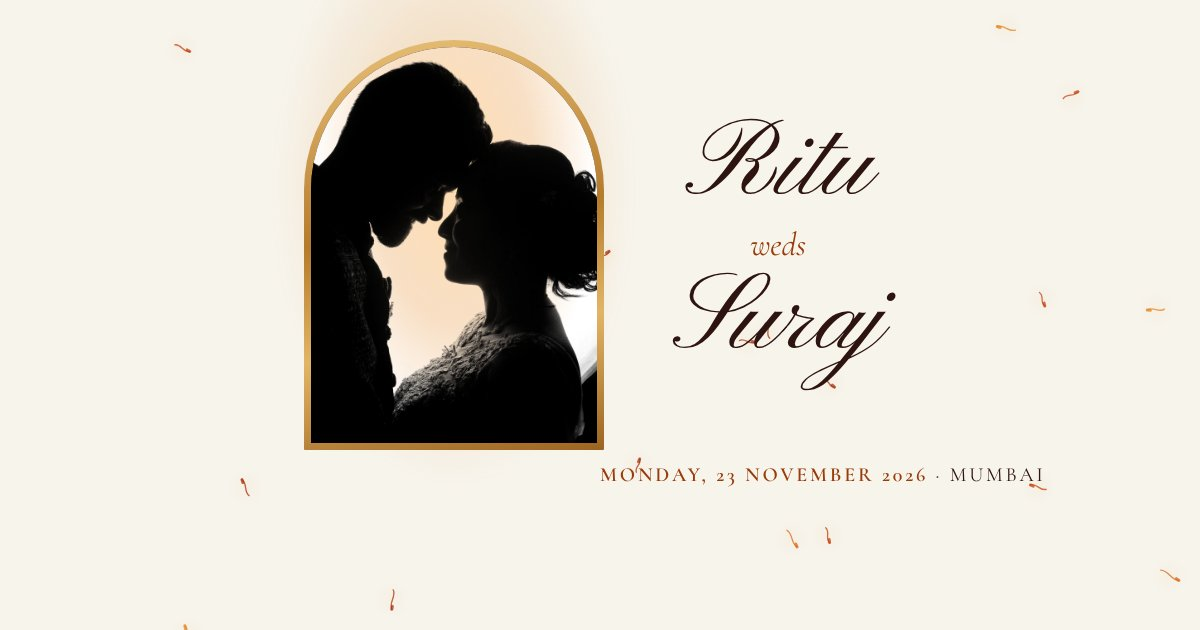
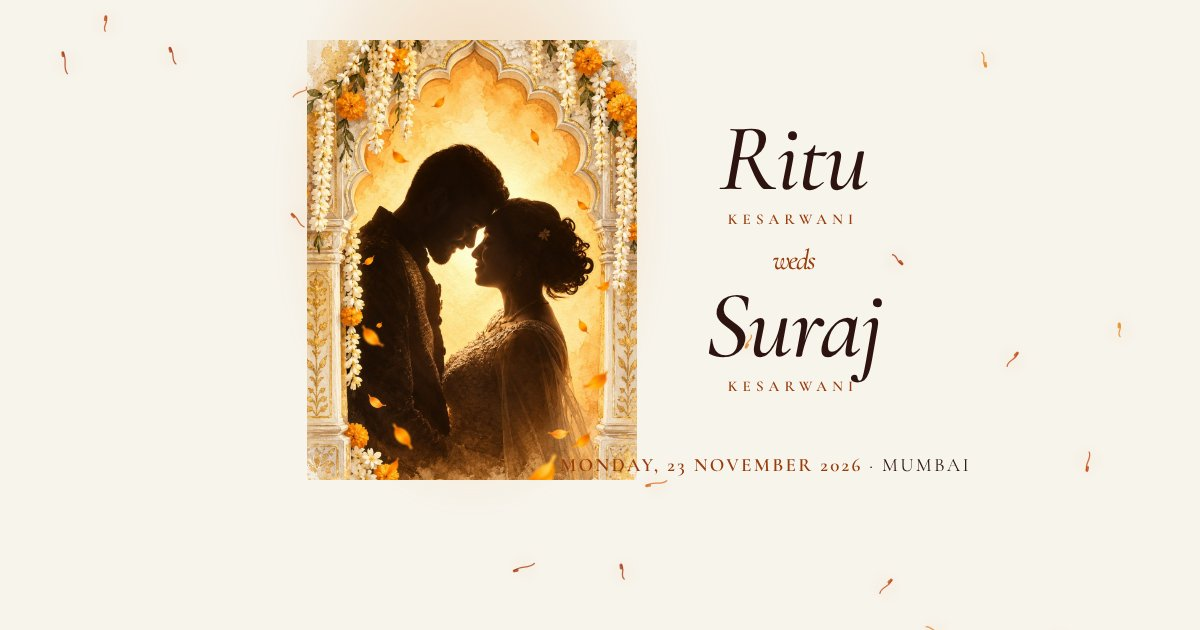
Add generated artwork; Haldi 6-10 PM; Vidai spelling
- Embossed paper, maroon-gold liner, personalized wax seal and gold line sketch on the envelope
- Illustrated hero, Haldi, Shubh Vivah, Vidai scenes and Varanasi finale
- Early taps on the seal now open the envelope once images have loaded
- New WhatsApp preview image

Claude-Session: https://claude.ai/code/session_014YXH3ci8fQ2fFcVnnSEfGq

Changed region(s): [[0.2467, 0.0603, 0.8633, 0.7841], [0.7708, 0.9952, 0.8017, 1.0], [0.6475, 0.8444, 0.6783, 0.8746]]

diff --git a/src/styles.css b/src/styles.css
@@ -58,8 +58,8 @@ figure { margin: 0 }
 .flap .back { transform: rotateX(180deg); background: inherit; background-color: #4A1019; background-image: radial-gradient(circle, rgba(233, 184, 114, .45) 1.4px, transparent 1.8px), repeating-linear-gradient(45deg, rgba(233, 184, 114, .14) 0 1px, transparent 1px 13px), repeating-linear-gradient(-45deg, rgba(233, 184, 114, .14) 0 1px, transparent 1px 13px), linear-gradient(0deg, #6A1A26, #3A0C14); background-size: 18px 18px, auto, auto, 100% 100% }
 .lit { position: absolute; inset: 0; background-image: var(--glowp); background-size: 100% 100%; pointer-events: none;
   -webkit-mask-image: radial-gradient(circle at 50% 56%, #000 calc(var(--gr) - 14%), transparent var(--gr)); mask-image: radial-gradient(circle at 50% 56%, #000 calc(var(--gr) - 14%), transparent var(--gr)) }
-.gate.photo .lit { filter: sepia(1) saturate(5) hue-rotate(-12deg) brightness(1.08) contrast(1.35) }
-.copy { position: absolute; left: 0; right: 0; z-index: 5; text-align: center; color: var(--ink); pointer-events: none; padding: 14px max(24px, env(safe-area-inset-left, 0px)); background: radial-gradient(ellipse 60% 70% at 50% 50%, rgba(247, 243, 234, .92), rgba(247, 243, 234, .6) 60%, rgba(247, 243, 234, 0) 80%) }
+.gate.photo .lit { filter: sepia(.85) saturate(2.4) hue-rotate(-14deg) contrast(1.15); mix-blend-mode: multiply; opacity: .75 }
+.copy { position: absolute; left: 0; right: 0; z-index: 5; transform: translateZ(6px); text-align: center; color: var(--ink); pointer-events: none; padding: 14px max(24px, env(safe-area-inset-left, 0px)); background: radial-gradient(ellipse 60% 70% at 50% 50%, rgba(247, 243, 234, .92), rgba(247, 243, 234, .6) 60%, rgba(247, 243, 234, 0) 80%) }
 .copy.top { top: calc(56% - clamp(196px, 27vh, 244px)) }
 .copy .k { display: block; font-size: 13px; letter-spacing: .32em; text-transform: uppercase; color: var(--kesar-ink) }
 .copy .s { display: block; font-family: var(--script); font-style: italic; font-weight: 500; font-size: clamp(26px, 7vw, 38px); line-height: 1.15; margin-top: 4px }
@@ -67,8 +67,8 @@ figure { margin: 0 }
 .copy.bot p { font-family: var(--serif); font-style: italic; font-size: clamp(20px, 5.4vw, 24px); line-height: 1.35 }
 .copy.bot small { display: block; margin-top: 14px; font-size: 13px; letter-spacing: .3em; text-transform: uppercase; color: var(--muted) }
 .copy.bot small .deva { letter-spacing: 0; text-transform: none; font-size: 15px }
-.seal { position: absolute; left: 50%; top: 56%; z-index: 6; width: clamp(110px, 30vw, 150px); aspect-ratio: 1; margin: 0; padding: 0; border: 0; background: none; cursor: pointer; border-radius: 50%; translate: -50% -50% }
-.seal:disabled { cursor: progress }
+.seal { position: absolute; left: 50%; top: 56%; z-index: 6; width: clamp(110px, 30vw, 150px); aspect-ratio: 1; margin: 0; padding: 0; border: 0; background: none; cursor: pointer; border-radius: 50%; translate: -50% -50%; transform: translateZ(8px) }
+.seal[aria-busy="true"] { cursor: progress }
 .seal .half { position: absolute; inset: 0; display: block; transition: transform .35s var(--out) }
 .seal .half svg, .seal .half img { width: 100%; height: 100%; display: block; filter: drop-shadow(0 6px 10px rgba(60, 10, 10, .45)); user-select: none; -webkit-user-drag: none }
 .seal .h1 { clip-path: polygon(0 0, 52% 0, 47% 22%, 55% 40%, 46% 58%, 54% 76%, 49% 100%, 0 100%) }
@@ -261,3 +261,17 @@ main { position: relative; z-index: 1; overflow-x: clip }
 /* generated paper photo: cover instead of stretch (all layers share the same box, so they stay aligned) */
 .gate.photo .pocket, .gate.photo .lit { background-size: cover; background-position: center }
 .gate.photo .flap .front { background-size: 100% 100%, cover; background-position: center }
+
+/* ============ generated art ============ */
+.arch.painted { width: min(74vw, 40vh, 440px); aspect-ratio: 3/4 }
+.arch.painted .arch-frame { padding: 0; background: none; border-radius: 0; overflow: hidden;
+  -webkit-mask-image: radial-gradient(ellipse 72% 70% at 50% 48%, #000 62%, transparent 100%); mask-image: radial-gradient(ellipse 72% 70% at 50% 48%, #000 62%, transparent 100%) }
+.arch.painted .arch-frame img { width: 100%; height: 100%; object-fit: cover; display: block }
+.card-in img.sketch { width: 58%; aspect-ratio: 1; object-fit: contain; border-radius: 0; filter: none; box-shadow: none }
+.finale.painted .bg { inset: -4% 0 }
+.finale.painted .bg img { filter: none; mix-blend-mode: normal; opacity: 1; object-position: 50% 70% }
+.finale.painted::after { background: linear-gradient(180deg, var(--curtain) 0%, rgba(78, 17, 27, .82) 18%, rgba(78, 17, 27, .35) 45%, transparent 62%, rgba(40, 8, 14, .55) 88%, var(--curtain)) }
+.finale.painted { place-items: start center }
+.finale.painted .in { padding-top: clamp(64px, 10vh, 110px); gap: 14px }
+.finale.painted .nm { font-size: clamp(56px, 15vw, 104px) }
+.finale.painted .wait { position: relative; margin-top: 52vh; text-shadow: 0 2px 12px rgba(0, 0, 0, .7) }

diff --git a/src/components/Envelope.tsx b/src/components/Envelope.tsx
@@ -13,6 +13,7 @@ export default function Envelope({ onOpen }: { onOpen: () => void }) {
   const root = useRef<HTMLDivElement>(null);
   const [art, setArt] = useState<{ paper: string; glow: string; photo: boolean; seal: string | null; liner: string | null } | null>(null);
   const opened = useRef(false);
+  const pending = useRef(false); // a tap that arrived before the paper finished loading
 
   // Paper: the generated photo if provided, else the procedural relief.
   useEffect(() => {
@@ -21,11 +22,12 @@ export default function Envelope({ onOpen }: { onOpen: () => void }) {
       if (!alive) return;
       const proc = p ? null : makePaper(innerWidth, innerHeight);
       setArt({
-        paper: p ? IMG.paper : proc!.paper,
-        glow: p ? IMG.paper : proc!.glow,
+        // absolute URLs: a url() inside a CSS variable resolves against the stylesheet, not the page
+        paper: p ? new URL(IMG.paper, document.baseURI).href : proc!.paper,
+        glow: p ? new URL(IMG.paper, document.baseURI).href : proc!.glow,
         photo: !!p,
-        seal: s ? IMG.seal : null,
-        liner: l ? IMG.liner : null,
+        seal: s ? new URL(IMG.seal, document.baseURI).href : null,
+        liner: l ? new URL(IMG.liner, document.baseURI).href : null,
       });
     });
     return () => { alive = false; };
@@ -51,7 +53,8 @@ export default function Envelope({ onOpen }: { onOpen: () => void }) {
   }, []);
 
   const open = () => {
-    if (opened.current || !art) return;
+    if (opened.current) return;
+    if (!art) { pending.current = true; return; }
     opened.current = true;
     const el = root.current!;
     const q = gsap.utils.selector(el);
@@ -79,6 +82,7 @@ export default function Envelope({ onOpen }: { onOpen: () => void }) {
       .to(q('.seal .h1'), { xPercent: -40, yPercent: 25, rotation: -22, opacity: 0, duration: 0.9, ease: 'power3.in' }, 1.0)
       .to(q('.seal .h2'), { xPercent: 40, yPercent: 30, rotation: 24, opacity: 0, duration: 0.9, ease: 'power3.in' }, 1.0)
       .to([svg, q('.halo')[0]], { opacity: 0, duration: 0.7, ease: 'power2.out' }, 1.45)
+      .to(q('.lit'), { opacity: 0, duration: 1.2, ease: 'power2.out' }, 1.5)
       // flap swings open on its hinge, the shadow it casts lifts
       .add(() => rustle(0, 0.8), 1.25)
       .to(q('.flap'), { rotationX: 180, duration: 1.05, ease: 'power2.inOut' }, 1.25)
@@ -102,6 +106,9 @@ export default function Envelope({ onOpen }: { onOpen: () => void }) {
       }, 3.0)
       .to(el, { opacity: 0, duration: 0.5, ease: 'power2.out' }, 4.0);
   };
+
+  // honour an early tap once everything is ready
+  useEffect(() => { if (art && pending.current) { pending.current = false; open(); } }, [art]);
 
   const sealSVG = (
     <svg viewBox="0 0 200 200" aria-hidden="true">
@@ -128,7 +135,7 @@ export default function Envelope({ onOpen }: { onOpen: () => void }) {
         <div className="card">
           <div className="card-in">
             <span className="k">The wedding of</span>
-            <img src={IMG.couple1} alt="" />
+            <img className={IMG.sketch ? 'sketch' : ''} src={IMG.sketch || IMG.couple1} alt="" />
             <span className="n">Ritu &amp; Suraj<small>Kesarwani</small></span>
             <span className="k">23 · 11 · 2026</span>
           </div>
@@ -142,7 +149,7 @@ export default function Envelope({ onOpen }: { onOpen: () => void }) {
         </div>
         <div className="copy top" aria-hidden="true"><span className="k">You are invited</span><span className="s">Ritu Kesarwani<br />&amp; Suraj Kesarwani</span></div>
         <div className="copy bot"><p>The Kesarwani family invites you<br />to the wedding of their daughter</p><small>Tap the seal · <span className="deva">मुहर खोलें</span></small></div>
-        <button className="seal" type="button" onClick={open} aria-label="Break the seal to open the invitation" disabled={!art}>
+        <button className="seal" type="button" onClick={open} aria-label="Break the seal to open the invitation" aria-busy={!art}>
           <span className="ring" aria-hidden="true" />
           <span className="half h1">{sealFace}</span>
           <span className="half h2">{sealFace}</span>

diff --git a/src/components/Sections.tsx b/src/components/Sections.tsx
@@ -16,16 +16,25 @@ export function Hero() {
   return (
     <header className="sec hero" id="hero">
       <div className="gan deva" data-in>॥ श्री गणेशाय नमः ॥</div>
-      <div className={`arch${arch ? ' has-art' : ''}`} data-in>
-        <div className="arch-glow" />
-        <div className="arch-frame">
-          <div className="arch-in">
-            <img id="heroImg" src={IMG.couple1} alt="Ritu and Suraj in silhouette, foreheads touching, lit from behind" width={800} height={1200} fetchPriority="high" />
-            <div className="tint" />
+      {IMG.heroArt ? (
+        <div className="arch painted" data-in>
+          <div className="arch-glow" />
+          <div className="arch-frame">
+            <img id="heroImg" src={IMG.heroArt} alt="Ritu and Suraj in silhouette, foreheads touching, inside a flower-draped jharokha arch" width={1200} height={1600} fetchPriority="high" />
           </div>
         </div>
-        {arch && <img className="arch-art" src={IMG.arch} alt="" />}
-      </div>
+      ) : (
+        <div className={`arch${arch ? ' has-art' : ''}`} data-in>
+          <div className="arch-glow" />
+          <div className="arch-frame">
+            <div className="arch-in">
+              <img id="heroImg" src={IMG.couple1} alt="Ritu and Suraj in silhouette, foreheads touching, lit from behind" width={800} height={1200} fetchPriority="high" />
+              <div className="tint" />
+            </div>
+          </div>
+          {arch && <img className="arch-art" src={IMG.arch} alt="" />}
+        </div>
+      )}
       <h1 className="names">
         <span className="ln"><span data-in>Ritu<span className="sur">Kesarwani</span></span></span>
         <span className="amp" data-in>weds</span>
@@ -293,8 +302,8 @@ export function Families() {
 export function Finale() {
   return (
     <>
-      <section className="finale" id="end" aria-labelledby="end-h">
-        <div className="bg"><img data-par="10" src={IMG.couple2} alt="" width={1100} height={1650} loading="lazy" /></div>
+      <section className={`finale${IMG.finaleArt ? ' painted' : ''}`} id="end" aria-labelledby="end-h">
+        <div className="bg"><img data-par="6" src={IMG.finaleArt || IMG.couple2} alt="" width={1080} height={1920} loading="lazy" /></div>
         <div className="in">
           <p className="bless" data-rv>Come with your blessings. We will keep a seat warm for you.</p>
           <h2 className="nm" id="end-h" data-rv>Ritu<span className="sur">Kesarwani</span><span className="and">and</span>Suraj<span className="sur">Kesarwani</span></h2>

diff --git a/src/site.ts b/src/site.ts
@@ -15,6 +15,9 @@ export const IMG = {
   haldi: opt('event-haldi.jpg'),
   vivah: opt('event-vivah.jpg'),
   vidaai: opt('event-vidaai.jpg'),
+  heroArt: opt('hero-art.jpg'),       // illustrated couple in the jharokha (opening screen)
+  finaleArt: opt('finale-art.jpg'),   // couple under the moon at the ghats (closing screen)
+  sketch: opt('couple-sketch.png'),   // gold line portrait (envelope card)
 };
 
 export const WEDDING_START_UTC = Date.UTC(2026, 10, 23, 11, 30); // 23 Nov 2026, 5:00 PM IST
@@ -37,10 +40,10 @@ const HOME_Q = 'Shantinath+Bhavan+Dr+Babasaheb+Ambedkar+Road+Matunga+East+Mumbai
 export const events = [
   {
     key: 'haldi', day: '22', dow: 'Sunday', title: 'Haldi & Mehendi', hindi: 'हल्दी • मेहंदी',
-    time: '8:00 AM to 10:00 PM', note: 'With all the wedding rituals',
+    time: '6:00 PM to 10:00 PM', note: 'Evening of Haldi, Mehendi and all the wedding rituals',
     place: 'Room No. 48, Shantinath Bhavan, Matunga East',
     map: `https://www.google.com/maps/search/?api=1&query=${HOME_Q}`,
-    cal: ['20261122T080000', '20261122T220000'],
+    cal: ['20261122T180000', '20261122T220000'],
   },
   {
     key: 'vivah', day: '23', dow: 'Monday', title: 'Shubh Vivah', hindi: 'शुभ विवाह',
@@ -50,7 +53,7 @@ export const events = [
     cal: ['20261123T170000', '20261124T070000'],
   },
   {
-    key: 'vidaai', day: '24', dow: 'Tuesday', title: 'Vidaai', hindi: 'विदाई',
+    key: 'vidaai', day: '24', dow: 'Tuesday', title: 'Vidai', hindi: 'विदाई',
     time: '7:00 AM', note: 'Farewell to the bride',
     place: 'Uttar Bhavan Hall, BKC',
     map: `https://www.google.com/maps/search/?api=1&query=${HALL_Q}`,

diff --git a/index.html b/index.html
@@ -15,7 +15,8 @@
   <link rel="preconnect" href="https://fonts.googleapis.com" />
   <link rel="preconnect" href="https://fonts.gstatic.com" crossorigin />
   <link rel="stylesheet" href="https://fonts.googleapis.com/css2?family=Cormorant+Garamond:ital,wght@0,400;0,500;0,600;0,700;1,400;1,500&family=Tiro+Devanagari+Hindi&display=swap" />
-  <link rel="preload" as="image" href="./images/couple-1.jpg" />
+  <link rel="preload" as="image" href="./images/envelope-paper.jpg" />
+  <link rel="preload" as="image" href="./images/wax-seal.png" />
 </head>
 <body>
   <div id="root"></div>
